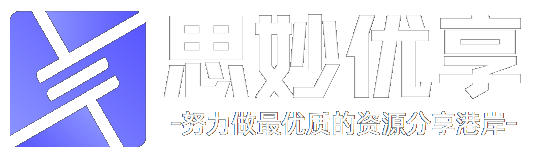
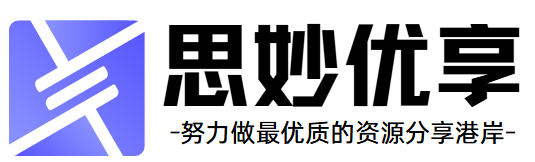
Site updated: 2025-02-08 00:13:36

diff --git a/friendchains/index.html b/friendchains/index.html
@@ -30,7 +30,7 @@
 <meta property="og:image" content="http://www.puill.xin/image/linkone.jpg">
 <meta property="og:image" content="http://www.puill.xin/image/abc.png">
 <meta property="article:published_time" content="2025-01-17T16:13:22.000Z">
-<meta property="article:modified_time" content="2025-02-07T16:09:38.685Z">
+<meta property="article:modified_time" content="2025-02-07T16:13:22.195Z">
 <meta property="article:author" content="puill">
 <meta name="twitter:card" content="summary">
 <meta name="twitter:image" content="http://www.puill.xin/image/giveme.png">
@@ -227,7 +227,7 @@
 
 <h2 id="内容分享类"><a href="#内容分享类" class="headerlink" title="内容分享类"></a><center>内容分享类</center></h2><div style="border: 2px solid black; padding: 10px;">
     <div style="text-align: center;">
-    <img src="../image/abc.png" width="544" height="163" style="background-color: black;"></img><a href="smyo.top">思妙优享资源港</a>
+    <img src="../image/abc.png" width="544" height="163" ></img><a href="smyo.top">思妙优享资源港</a>
     </div>
     <div style="text-align: center;">
         <b>描述：一个分享优质资源的网站</b>
